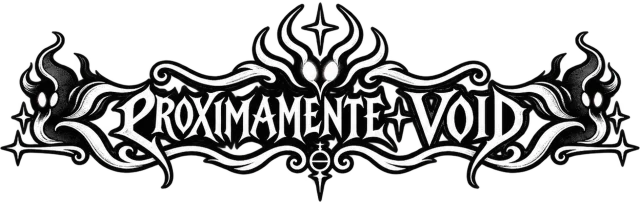
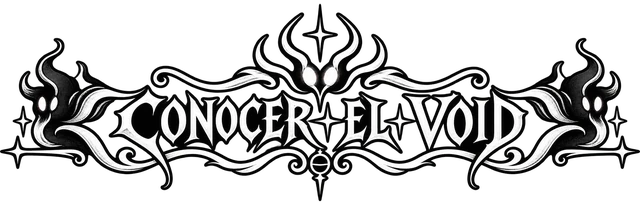
Ajusta dibujos de Hollow Knight y baja el conjunto orbital

diff --git a/css/inicio.css b/css/inicio.css
@@ -196,6 +196,8 @@
 
 /* ----- Escenario de la órbita ----- */
 .orbita {
+  /* Baja juntos el agujero y los planetas para equilibrarlos con carta y barra. */
+  --bajada-conjunto: clamp(16px, 3vh, 28px);
   /* Tamaño de los planetas: mínimo 58px, ideal 8% del ancho, máximo 104px */
   --tam-planeta: clamp(58px, 8vw, 104px);
   /* Diámetro del agujero negro, en planetas: 1.9 = 1.9 veces un planeta. Todo lo del agujero
@@ -716,7 +718,7 @@ button.planeta__enlace {
 .orbita--viva .orbita__logo {
   position: absolute;
   left: 50%;
-  top: 50%;
+  top: calc(50% + var(--bajada-conjunto));
   z-index: 50;
   transform: translate(-50%, -50%);
   pointer-events: none;
@@ -732,7 +734,7 @@ button.planeta__enlace {
 .orbita--viva .planeta {
   position: absolute;
   left: 50%;
-  top: 50%;
+  top: calc(50% + var(--bajada-conjunto));
   will-change: transform, filter; /* orbita.js los mueve (transform) y oscurece los de atrás (filter) */
 }
 
@@ -766,7 +768,7 @@ button.planeta__enlace {
   }
 
   .orbita {
+    --bajada-conjunto: 12px; /* en móvil dejamos más espacio para la barra inferior */
     min-height: 480px;
   }
 }
-

diff --git a/js/placa-hollow-knight.js b/js/placa-hollow-knight.js
@@ -31,9 +31,10 @@
   dibujo.src = "img/placas/hollow-knight-inicio.webp";
   const dibujoActivo = new Image();
   dibujoActivo.src = "img/placas/hollow-knight-activa.webp";
-  // Recortamos solo al dibujar: los PNG originales quedan intactos.
-  const RECORTE_INICIO = [0, 0, 640, 206]; // las imágenes WebP ya vienen recortadas: se usan enteras
-  const RECORTE_ACTIVA = [0, 0, 640, 207];
+  // «Rumbo a el Void» → «Conocer el Void», con los dos dibujos alineados.
+  // Las copias WebP miden lo mismo; los PNG originales quedan intactos.
+  const RECORTE_INICIO = [0, 0, 640, 206];
+  const RECORTE_ACTIVA = [0, 0, 640, 206];
   const DURACION_CAMBIO = 1100; // ms que tardan las dos sombras en cruzar y cambiar las palabras
   let cambio = 0;
   let fotogramaCambio = 0;

diff --git a/css/planetas/hollow-knight.css b/css/planetas/hollow-knight.css
@@ -97,15 +97,15 @@
   display: none;
 }
 
-/* Tus dos dibujos: el segundo PNG tiene márgenes transparentes más grandes.
-   background-size y position muestran el mismo recorte que el lienzo del JS. */
+/* Tus dibujos «Rumbo a el Void» y «Conocer el Void», preparados a 640 × 206.
+   El lienzo y el CSS comparten tamaño para que el cambio no dé un salto. */
 .viaje[data-tema="hollow-knight"] {
   width: min(22rem, 100% - 2 * var(--margen-lateral));
 }
 
 .viaje[data-tema="hollow-knight"] .viaje__placa {
   --placa-brillo: rgba(232, 230, 240, 0.2);
-  aspect-ratio: 2172 / 700;
+  aspect-ratio: 640 / 206;
   min-height: 0;
   padding: 0;
   border: 0;
